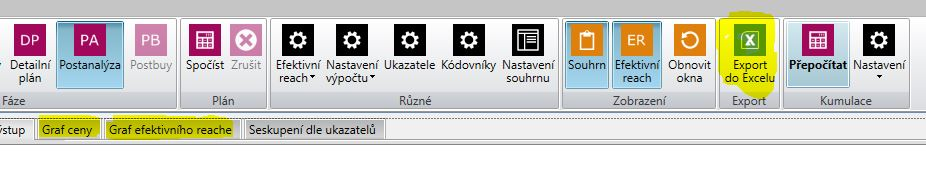
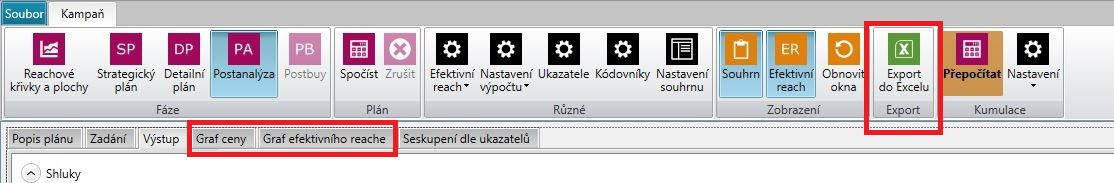
276v12

diff --git a/_posts/1999-01-01-1.1.276.md b/_posts/1999-01-01-1.1.276.md
@@ -7,11 +7,6 @@ Byla rozšířena funkčnost okna Nastavení exportu do Excelu. Nově lze vybrat
 
 ![DP Nastavení exportu do Excelu]({{site.url}}/data/dp_export_dialog.jpg "DP Nastavení exportu do Excelu")
 
-## <abbr title="Detailní plán">DP</abbr> - Vylepšení výběru pohledu
-K výběr aktuálního ukazatele byla přidána tlačítka pro uložení nebo zahození neuložených změn. Po najetí na výběr pohledu se zobrazí tooltip se seznamem všech neuložených změn.
-
-![Náhled změn v aktuálním pohledu]({{site.url}}/data/ukazatele_nahled_zmen.jpg "Náhled změn v aktuálním pohledu")
-
 ## <abbr title="Postanalýza">PA</abbr> - Okno Nastavení exportu do Excelu
 Nově je export do Excelu v PA možnost nastavit stejně jako export do Excelu v SP a DP. Navíc obsahuje možnost exportovat i data ze záložek specifických pro PA (Graf ceny, Graf efektivního reache a Seskupení dle ukazatelů). Okno pamatuje nastavení použité při posledním exportu.
 
@@ -37,6 +32,5 @@ Export do CSV nyní využívá okno nastavení, kde je možnost specifikovat ví
 <ul>
 	<li><abbr title="Reachové křivky">RK</abbr> - Oprava přístupnosti tlačítka Odebrat období</li>	
 	<li>Záložka Optimalizace/Priority - Opravy chyb v zobrazení validací</li>
-	<li>Ukazatele - Zjednodušení chování tlačítka zrušit</li>
 	<li>Opravy a vylepšení textů napříč Fenixem</li>	
 </ul>
